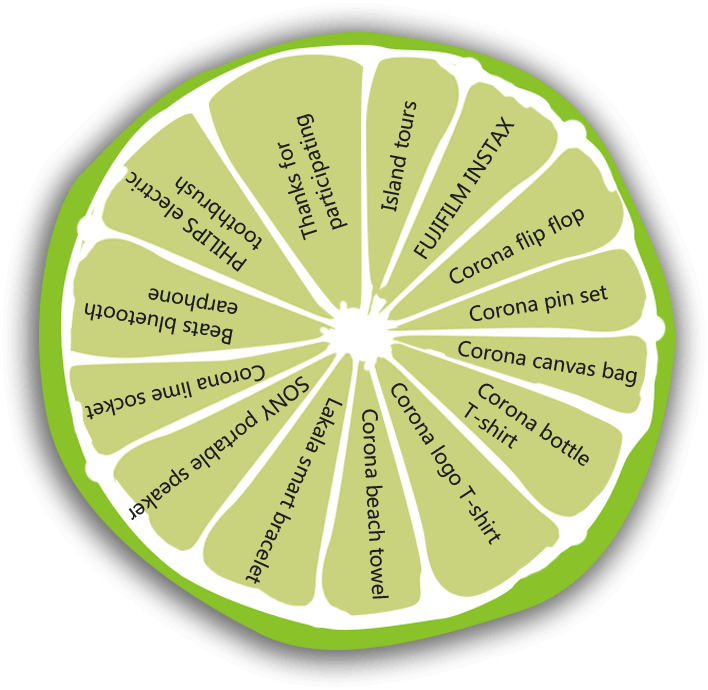
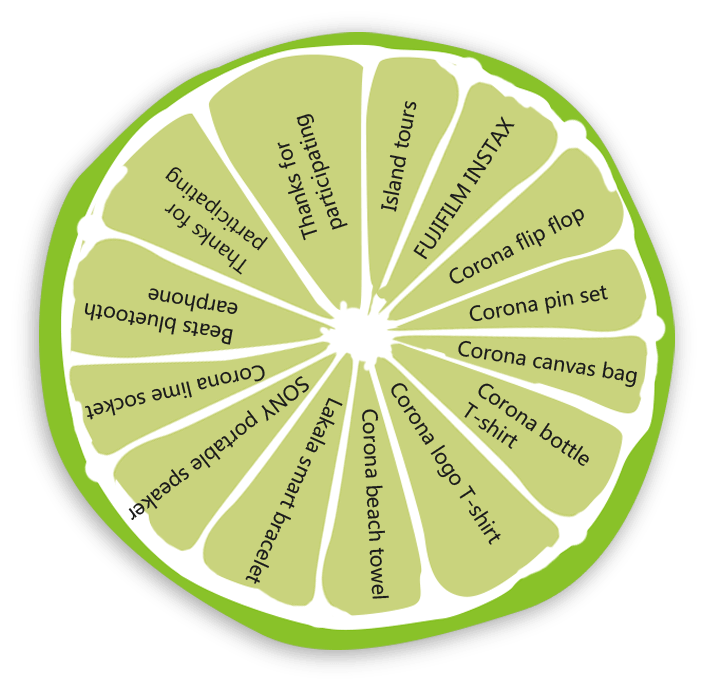
corona

Changed region(s): [[0.0, 0.0, 0.9944, 1.0], [0.1864, 0.2435, 0.3729, 0.3957]]

diff --git a/lottery.html b/lottery.html
@@ -121,12 +121,9 @@
 		</div>
 		<div class="page flex page-pop hide" id="scane">
 			<div class="flex cont">
+				<h3>Buy Corona, Enter to Win!</h3>
 				<p>
-					Please contact Corona <br>
-					promoter or waiter. Get the <br>
-					authorized QR code for<br>
-					Corona purchasing and<br>
-					check the winning results.
+					Please contact the Corona promoter <br>or waiter for authorized QR code.
 				</p>
 				<div class="bottle"></div>
 			</div>
@@ -166,7 +163,7 @@
 					<textarea></textarea>
 				</div>
 				<button class="btn submit" id="formSubmit">Submit Now</button>
-				<p class="tip">*Please complete your personal information and submit</p>
+				<p class="tip">*For demonstration purposes only, not as a real winning.</p>
 			</div>
 		</div>
 		<div class="page flex page-pop hide" id="successTip">
@@ -210,10 +207,6 @@
 					'prize': 'Second Prize',
 					'name': 'SONY portable speaker',
 					'img': 'img/prize5.png'
-				},{
-					'prize': 'Second Prize',
-					'name': 'PHILIPS electric toothbrush',
-					'img': 'img/prize3.png'
 				},{
 					'prize': 'Third Prize',
 					'name': 'Corona lime socket',
@@ -259,17 +252,20 @@
 					duration: 8000,
 					animateTo: angle+1440,
 					callback: function(){
-						$("#scane").removeClass('hide');
-						$('#lottery').addClass('hide');
+						
 					}
 				});
+				setTimeout(function(){
+					$("#scane").removeClass('hide');
+					$('#lottery').addClass('hide');
+				}, 5500)
 			});
 
 			//scane
 			$('#scaneQrcode').on('click', function(){
 				$('#scane').addClass('hide');
 				$('#scanGif').removeClass('hide');
-				var random = Math.floor(Math.random() * 12);
+				var random = Math.floor(Math.random() * 11);
 				$('#result').find('img').attr('src', result[random].img);
 				$('#result').find('h3').html(result[random].prize);
 				$('#result').find('h4').html(result[random].name);
